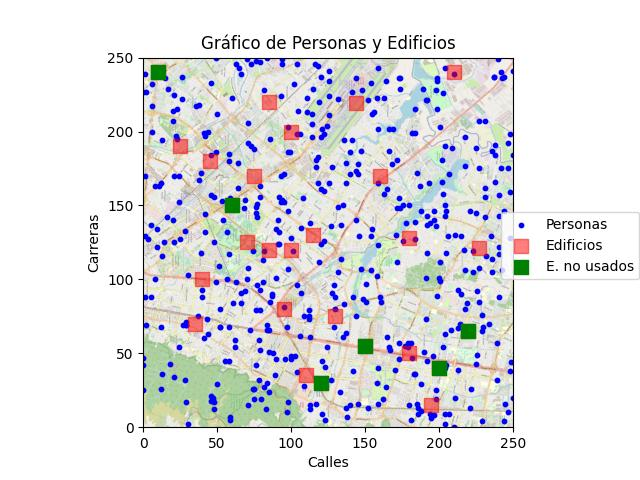
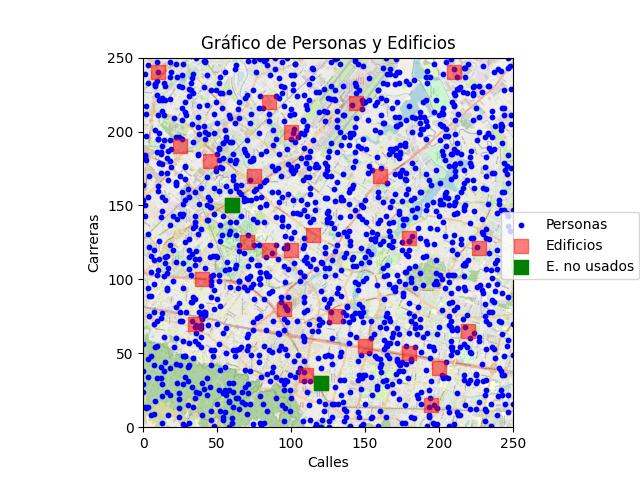
si los edificios pasan un maximo los metemos alsig

Changed region(s): [[0.2188, 0.0938, 0.8125, 0.9062]]

diff --git a/QuadTree.py b/QuadTree.py
@@ -307,6 +307,7 @@ class QuadTree:
         edificiosNoUsados.extend(x.imprimirEdificios())
         return edificiosNoUsados
         #Función para imprimir los edificios del cuadrante
+    #Funcion para acomodar los edificios a que cumplan el mínimo o lo más cercano a este
     def acomodarEdificios(self):
         if (not self.dividido):
  
@@ -355,6 +356,27 @@ class QuadTree:
                         self.edificios[e].listaEstudiantes = extraEstudiantes
                         extraEstudiantes = None
                         break
+                #finalmente recorremos el cuadrante de nuevo para saber 
+                #si hay alguno que supere la capacidad máxima, que lo mueva al otro edificio
+                
+                if len(self.edificios[0].listaEstudiantes) >= self.edificios[0].capMax:
+                    #movemos al siguiente edificio (index 1)
+                    dif = abs(len(self.edificios[0].listaEstudiantes) - self.edificios[0].capMax)
+                    if (len(self.edificios[1].listaEstudiantes)+dif) < self.edificios[1].capMax:
+                    #creamos la lueva lista
+                        moverEstudiantes = self.edificios[0].listaEstudiantes[self.edificios[0].capMax:]
+                        self.edificios[1].listaEstudiantes.extend(moverEstudiantes)
+                        #actualizamos la lista
+                        self.edificios[0].listaEstudiantes = self.edificios[0].listaEstudiantes[:self.edificios[0].capMax]
+                elif len(self.edificios[1].listaEstudiantes) >= self.edificios[1].capMax:
+                    #movemos al siguiente edificio (index 1)
+                    dif = abs(len(self.edificios[1].listaEstudiantes) - self.edificios[1].capMax)
+                    if (len(self.edificios[0].listaEstudiantes)+dif) < self.edificios[0].capMax:
+                    #creamos la lueva lista
+                        moverEstudiantes = self.edificios[1].listaEstudiantes[self.edificios[1].capMax:]
+                        self.edificios[0].listaEstudiantes.extend(moverEstudiantes)
+                        #actualizamos la lista
+                        self.edificios[1].listaEstudiantes = self.edificios[1].listaEstudiantes[:self.edificios[1].capMax]
                                 
             """    
                 for e in self.edificios:

diff --git a/Edificio.py b/Edificio.py
@@ -27,7 +27,7 @@ class Edificio:
         for s in range(self.numeroSalones):
             if(s % cambioPisos == 0):
                 piso = int(str(i)+str(s))
-                #falta añadir estudiantes
+                #Aniadimos 
                 self.listaSalones.append(Salon(capMax=capMax,idSalon=piso,capMin=capMin,capOpt=capOpt))
     
 #Clase para identificar los salones

diff --git a/main.py b/main.py
@@ -25,7 +25,7 @@ def generar_estudiantes(n):
         estudiantes.append(estudiante)
     return estudiantes
 
-nEst = 500
+nEst = 1500
 listaEstudiantes = generar_estudiantes(nEst)
 
 # for i in range(nEst):
